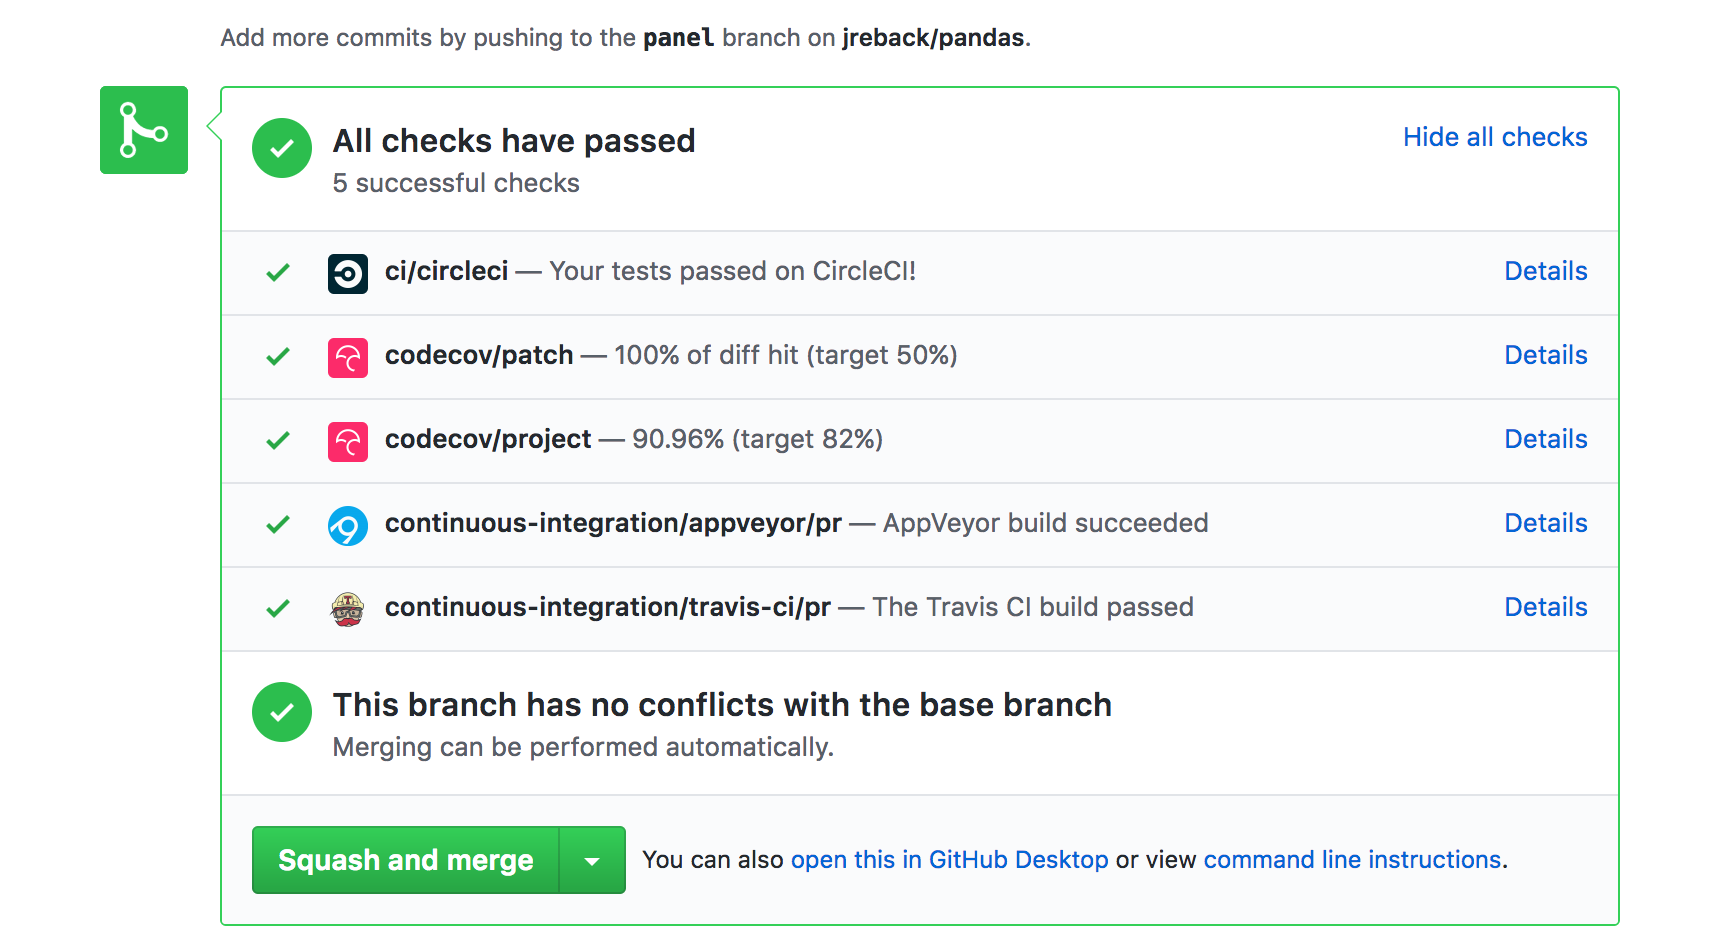
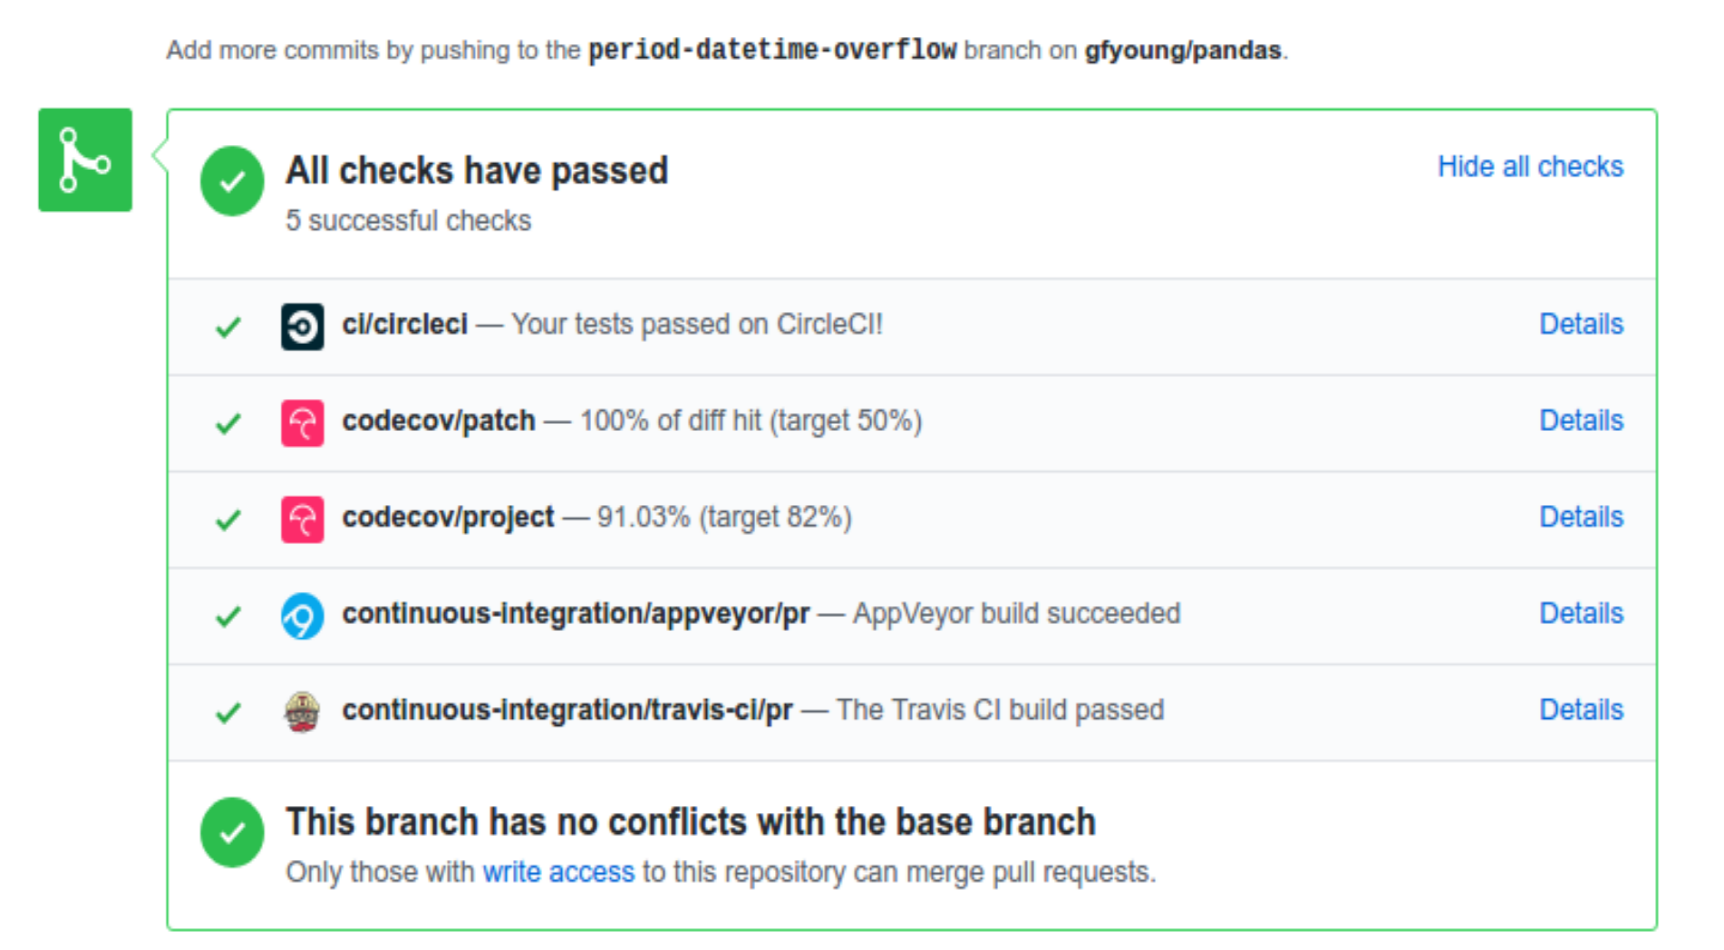
DOC: Demo incorporating pytest into test classes (#15989)
* MAINT: Change CI picture to reflect non-owner
* DOC: Demo using pytest features in test classes

diff --git a/doc/source/contributing.rst b/doc/source/contributing.rst
@@ -614,23 +614,34 @@ the expected correct result::
 
         assert_frame_equal(pivoted, expected)
 
-How to use ``parametrize``
-~~~~~~~~~~~~~~~~~~~~~~~~~~
+Transitioning to ``pytest``
+~~~~~~~~~~~~~~~~~~~~~~~~~~~
 
-`pytest <http://doc.pytest.org/en/latest/>`__ has a nice feature `parametrize <https://docs.pytest.org/en/latest/parametrize.html>`__ to allow
-testing of many cases in a concise way that enables an easy-to-read syntax.
+*pandas* existing test structure is *mostly* classed based, meaning that you will typically find tests wrapped in a class, inheriting from ``tm.TestCase``.
 
-.. note::
+.. code-block:: python
 
-   *pandas* existing test structure is *mostly* classed based, meaning that you will typically find tests wrapped in a class, inheriting from ``tm.TestCase``.
+    class TestReallyCoolFeature(tm.TestCase):
+        ....
 
-   .. code-block:: python
+Going forward, we are moving to a more *functional* style using the `pytest <http://doc.pytest.org/en/latest/>`__ framework, which offers a richer testing
+framework that will facilitate testing and developing. Thus, instead of writing test classes, we will write test functions like this:
 
-      class TestReallyCoolFeature(tm.TestCase):
-          ....
+.. code-block:: python
 
-   Going forward we are moving to a more *functional* style, please see below.
+    def test_really_cool_feature():
+        ....
 
+Sometimes, it does make sense to bundle test functions together into a single class, either because the test file is testing multiple functions from a single module, and
+using test classes allows for better organization. However, instead of inheriting from ``tm.TestCase``, we should just inherit from ``object``:
+
+.. code-block:: python
+
+    class TestReallyCoolFeature(object):
+        ....
+
+Using ``pytest``
+~~~~~~~~~~~~~~~~
 
 Here is an example of a self-contained set of tests that illustrate multiple features that we like to use.
 
@@ -641,7 +652,7 @@ Here is an example of a self-contained set of tests that illustrate multiple fea
 - ``tm.assert_series_equal`` (and its counter part ``tm.assert_frame_equal``), for pandas object comparisons.
 - the typical pattern of constructing an ``expected`` and comparing versus the ``result``
 
-We would name this file ``test_cool_feature.py`` and put in an appropriate place in the ``pandas/tests/`` sturcture.
+We would name this file ``test_cool_feature.py`` and put in an appropriate place in the ``pandas/tests/`` structure.
 
 .. code-block:: python
 
